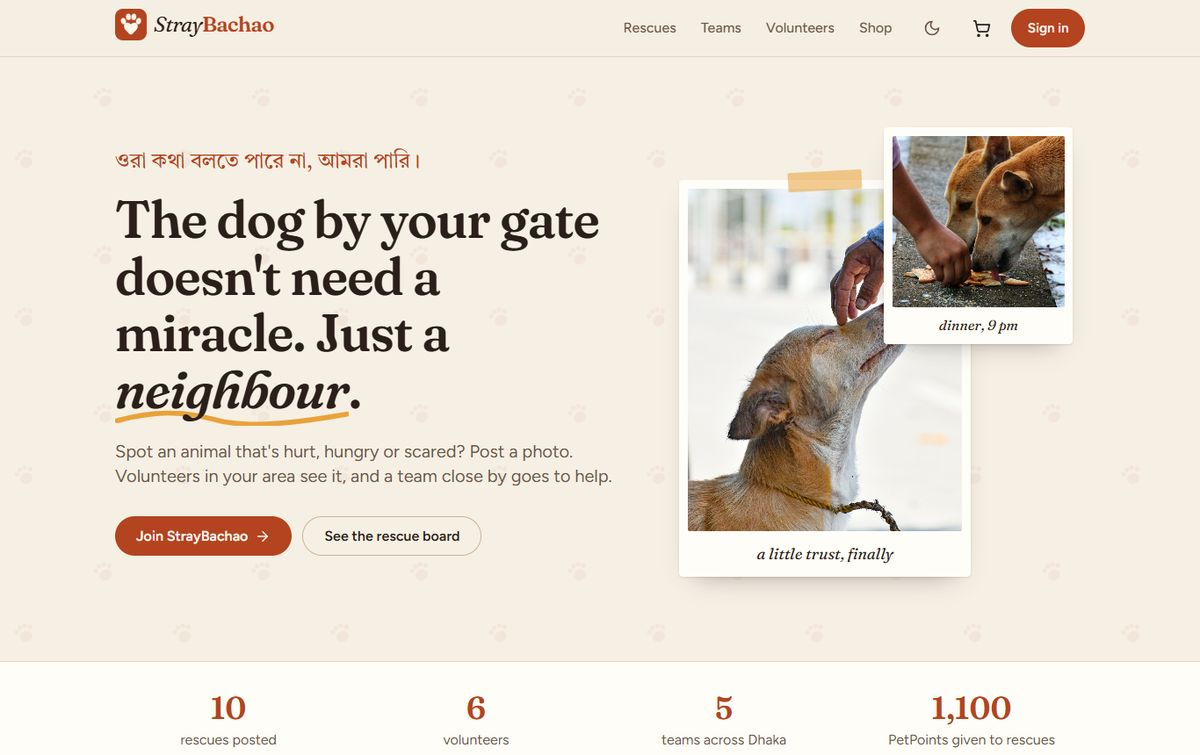
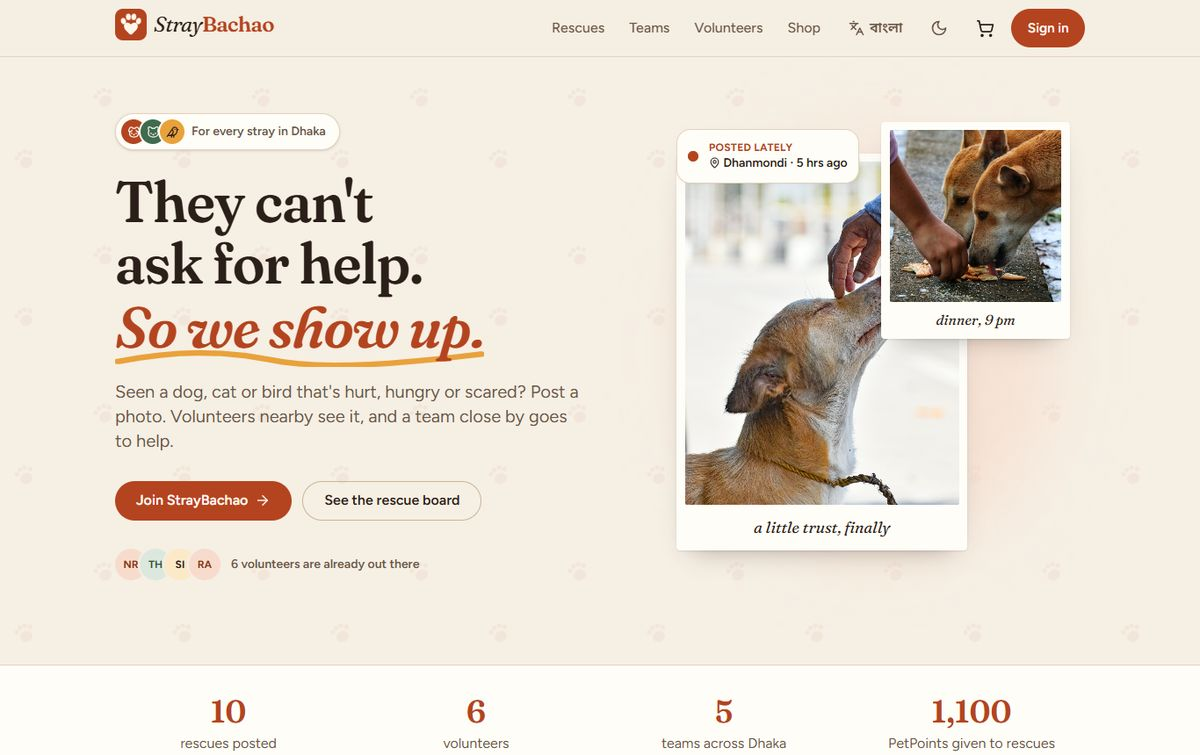
Update README

diff --git a/README.md b/README.md
@@ -1,6 +1,6 @@
 # StrayBachao: An Animal Rescue Network
 
-*ওরা কথা বলতে পারে না, আমরা পারি।* They can't ask for help, so the rest of us keep an eye out.
+*ওরা সাহায্য চাইতে পারে না। তাই আমরা পাশে দাঁড়াই।* They can't ask for help, so we show up.
 
 StrayBachao connects people who spot a street animal in trouble with volunteers
 nearby. Anyone can post a photo to the rescue board; volunteers form teams by
@@ -13,7 +13,9 @@ It started life as **Save Paws**, a personal project. I came back to it twice:
 once to fix the backend, and once to rename it and rebuild the interface. Both
 passes are written up [below](#what-changed-and-why).
 
-![The landing page](docs/landing.jpg)
+| English | বাংলা |
+|---|---|
+| ![The landing page in English](docs/landing.jpg) | ![The landing page in Bangla](docs/landing-bn.jpg) |
 
 ## Stack
 
@@ -43,6 +45,9 @@ passes are written up [below](#what-changed-and-why).
   cart, and a checkout paid in PetPoints with an optional donation.
 - **Admin.** Product and stock management, order status, the volunteer list
   and revenue, cost and profit charts.
+- **Bangla and English.** One button switches every screen, including numbers,
+  area names and "5 hrs ago". What people write (captions, team names, bios,
+  team updates) is never translated: a post written in Bangla stays in Bangla.
 - **Light and dark themes**, a layout that works down to 390 px, and every text
   colour checked against WCAG AA.
 
@@ -152,7 +157,8 @@ python tools/browser_checks.py
 It signs in as a visitor, a volunteer, a supporter and the admin and follows
 every link: 14 to 18 pages each, with no console errors or failed requests. It
 checks about 2,500 pieces of text against WCAG AA in both themes, checks that
-no page scrolls sideways at 390 px, and saves screenshots to `tools/out/`.
+no page scrolls sideways at 390 px, then does the same again with the site in
+Bangla, and saves screenshots to `tools/out/`.
 
 ## Project layout
 
@@ -169,7 +175,8 @@ backend/
 frontend/
   src/pages/       one file per screen
   src/components/  the layout, shared pieces, and the admin screens
-  src/context/     AppContext, DarkmodeContext
+  src/context/     AppContext, DarkmodeContext, LangContext
+  src/i18n/        en.js and bn.js, every piece of interface text
   public/img/      landing and shop photos
 tools/
   browser_checks.py
@@ -230,6 +237,9 @@ used product photos copied from Amazon listings. So:
   edits to email and role were silently ignored; the login logo linked to
   `localhost:5173`; "Log out" in the admin panel did not log out; and a visitor
   loading any page caused a 401 in the console.
+- **Bangla alongside English**: every label, message and error the site shows
+  lives in `frontend/src/i18n/en.js` and `bn.js`, and the API's English error
+  messages are translated on the way in.
 - **Smaller bundle**: the admin screens load only when an admin opens them,
   which took the main script from 615 kB to 400 kB.
 
@@ -242,6 +252,8 @@ used product photos copied from Amazon listings. So:
 - **`npm run lint` still reports errors in the admin screens**, mostly unused
   variables in the revenue page. The pages I rewrote have none.
 - **Product images are URLs typed into the admin form**, not uploads.
+- The admin screens' tables and charts are still English only; their sidebar
+  switches language with the rest.
 - There are no component tests; the browser check covers the pages end to end
   instead.
 
